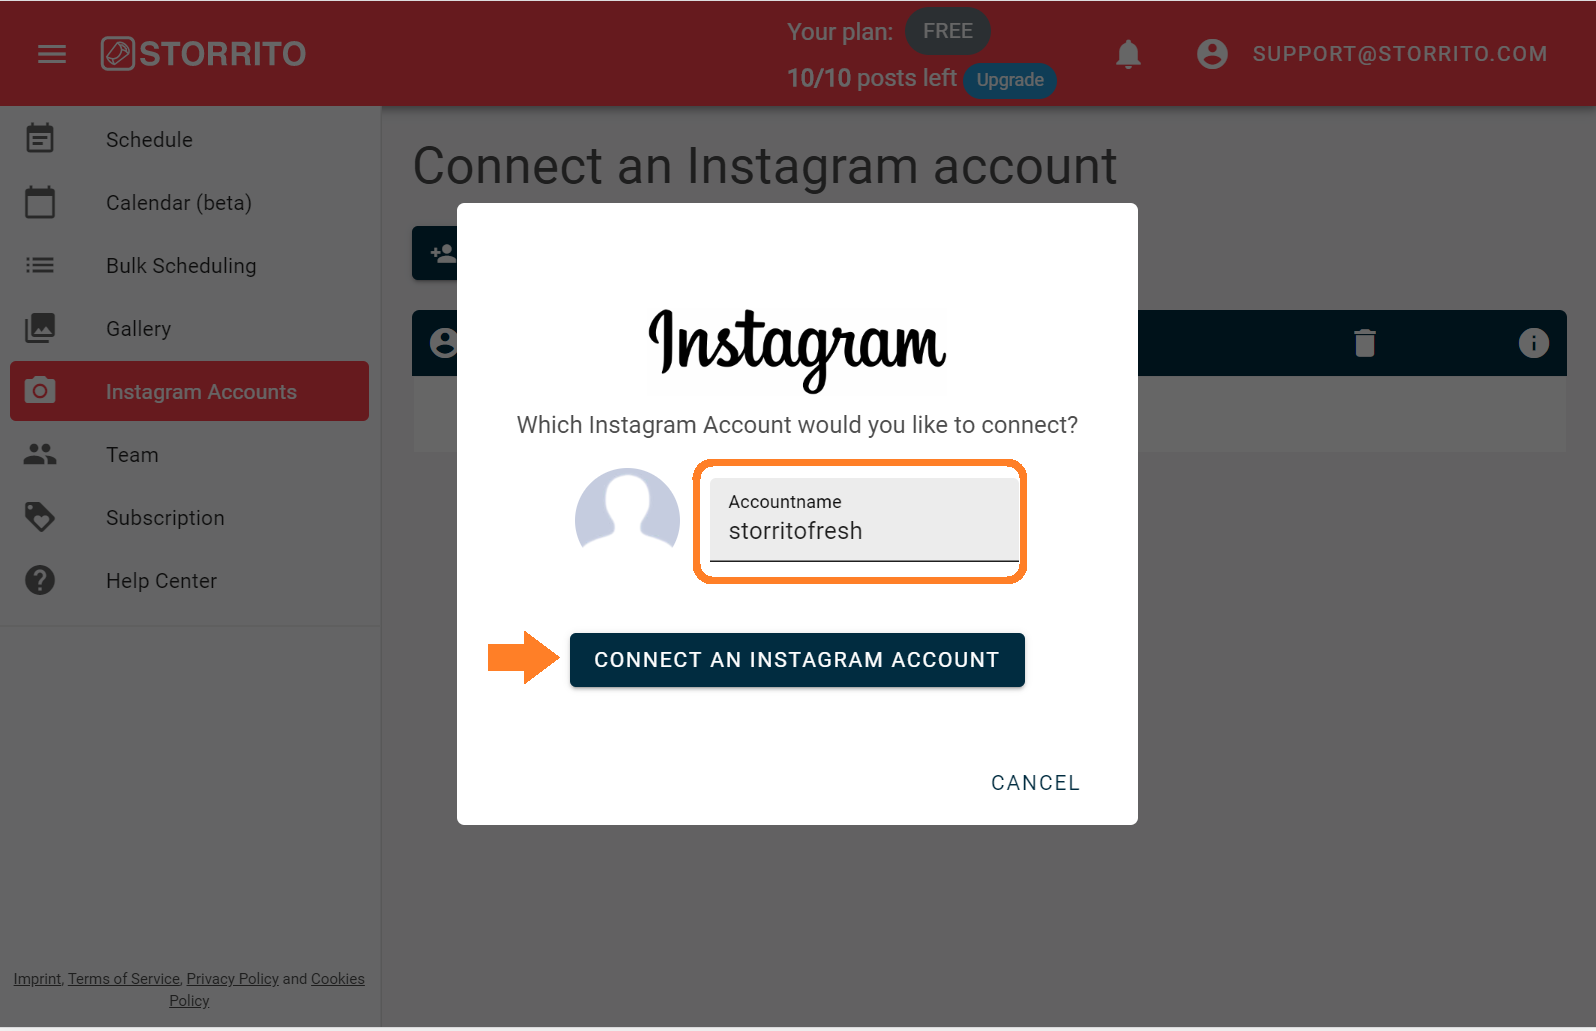
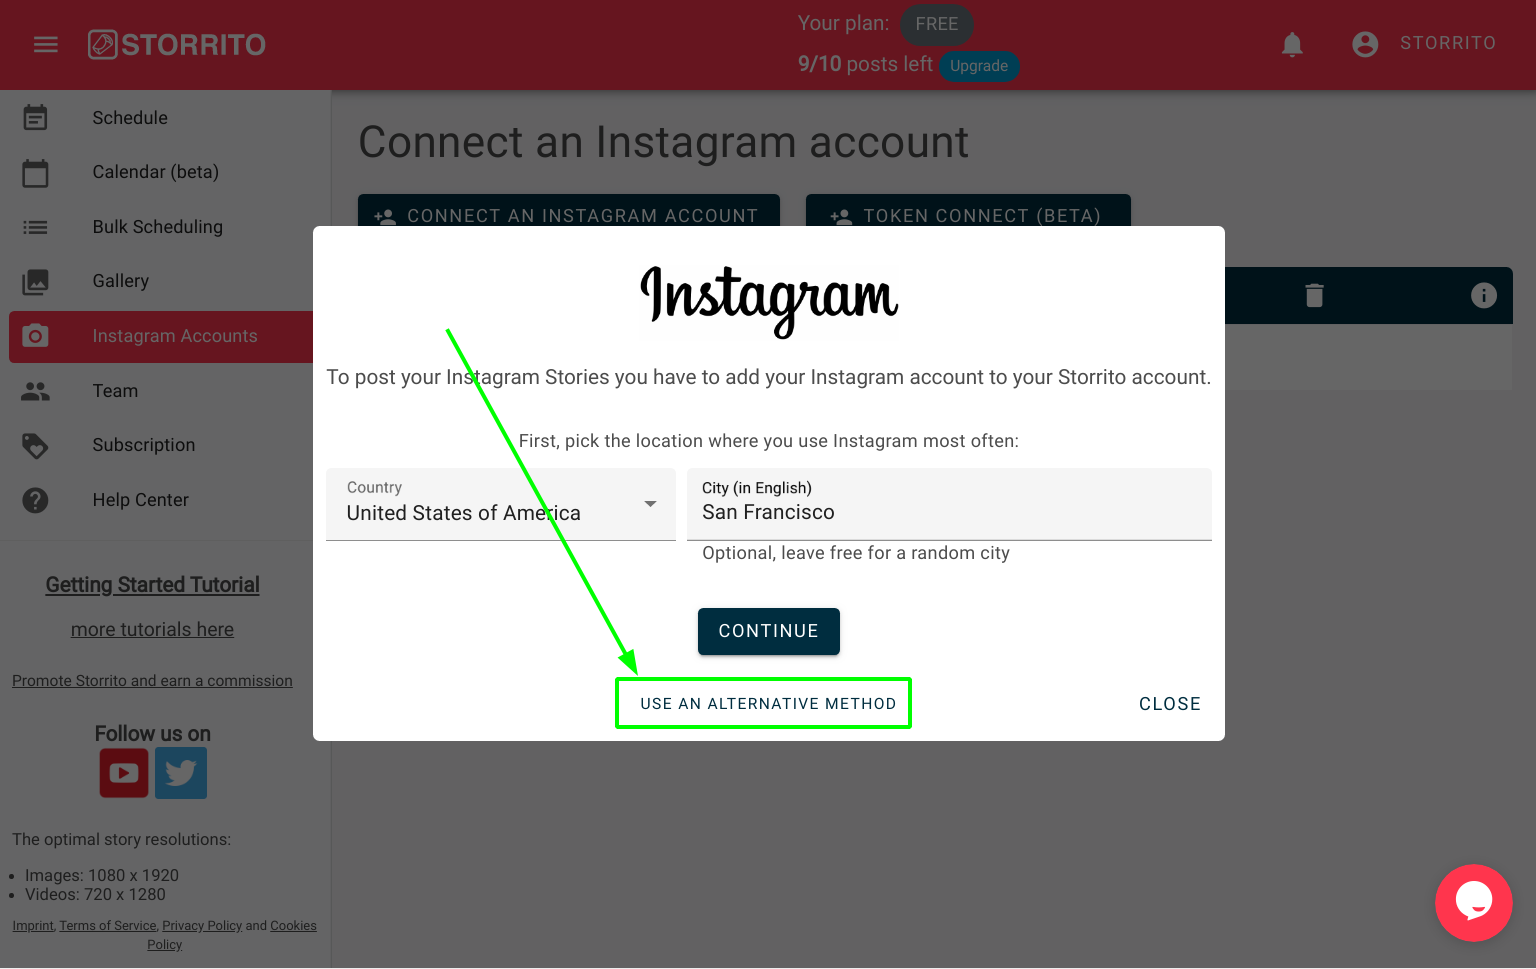
Exchanged screenshots and added tutorials for 2 browser extensions

diff --git a/_posts/2018-09-21-instagram-sessionid-cookie.md b/_posts/2018-09-21-instagram-sessionid-cookie.md
@@ -17,25 +17,54 @@ into your Instagram account. This is required to let Storrito post
 stories on your Instagram account.
 
 <!--more-->
-We recommend to use our [Chrome
-extension](https://chrome.google.com/webstore/detail/plnpnichbepfpgbhineljllbhdpglkpn)
-or [Firefox
-Add-On](https://addons.mozilla.org/de/firefox/addon/storrito/) to do
-the Instagram Connect for your Storrito account. If you still want to
-do it manually, please find the instructions below.
 
-A cookie has name and contains a text. For the Instagram Connect we
-need the `sessionid` cookie. The section below describes how to
-extract this cookie.
+## Get the session ID with a browser extension
 
-## How to get the Instagram sessionid cookie
+### Google Chrome - Cookie Tab Viewer:
 
-1. Open Google Chrome, Firefox or Edge
+1. Install the extension [Cookie Tab Viewer](https://chrome.google.com/webstore/detail/cookie-tab-viewer/fdlghnedhhdgjjfgdpgpaaiddipafhgk) and allow the extension to work in incognito:
+    1. Right click on the extension icon
+    2. Click on "Manage Extensions"
+    3. Activate the “Allow in Incognito” check box.
+
+2. Open an incognito window in Google Chrome
+
+3. Go to [https://www.instagram.com/](https://www.instagram.com/) and log into your Instagram account
+
+4. Click on the extension icon:
+  ![cookie tab viewer 1](/images/instagram-sessionid-cookie/cookie-tab-viewer-1.png)
+
+5. Copy the sessionid cookie by clicking on the copy button:  
+  ![cookie tab viewer 2](/images/instagram-sessionid-cookie/cookie-tab-viewer-2.png)
+
+6. Please paste the `session-id` into the proper input field on Storrito (see [Connect your Instagram account to Storrito](#connect-your-ig-account))
+
+### Firefox - Cookie Quick Manager:
+
+1. Install the addon [Cookie Quick Manager](https://addons.mozilla.org/de/firefox/addon/cookie-quick-manager/) and allow it to run in Private Windows:
+   ![cookie quick manager](/images/instagram-sessionid-cookie/cookie-quick-manager.png)
+
+2. Open a private firefox window
+
+3. Go to [https://www.instagram.com/](https://www.instagram.com/) and log into your Instagram account
+
+4. Click on the browser addon icon and select:
+  ![cookie quick manager](/images/instagram-sessionid-cookie/cookie-quick-manager-2.png)
+
+5. From left to right: Select the **.instagram.com** domain, Click on the first cookie called **sessionid**, Copy the cookie from the marked textbox:
+  ![cookie quick manager](/images/instagram-sessionid-cookie/cookie-quick-manager-3.png)
+
+6. Please paste the `session-id` into the proper input field on Storrito (see [Connect your Instagram account to Storrito](#connect-your-ig-account))
+
+
+## How to get the Instagram sessionid cookie manually (Google Chrome, Firefox, Edge)
+
+1. Open your browser
 
 2. Open an incognito window in Google Chrome (in Firefox it is called
 private window).
 
-3. Go to https://www.instagram.com/
+3. Go to https://www.instagram.com/ and log into your Instagram account
 
 2. Open Development console by doing a right click on the webpage and
 select "Inspect" or "Inspect Element" from the menu.
@@ -60,10 +89,9 @@ Edge:
 
 ![Edge](/images/instagram-sessionid-cookie/edge.png "Edge")
 
+## <a id="connect-your-ig-account"></a> Connect your Instagram account to Storrito
 
-## Connect your Instagram account to Storrito
-
-If you have not opened Storrito's Instagram Connect page, please open
+If you have not opened Storrito's Instagram Connect page yet, please open
 it:
 
 <a href="https://app.storrito.com/#/instagram/connect" target="_blank">https://app.storrito.com/#/instagram/connect</a>
@@ -71,14 +99,12 @@ it:
 Then click on `CONNECT AN INSTAGRAM ACCOUNT`  
 ![Instagram-connect step 1](/images/instagram-sessionid-cookie/instagram-connect-1.png "Instagram Connect step 1")
 
-Type in your Instagram account name and click on `CONNECT AN INSTAGRAM ACCOUNT`  
+Choose `USE AN ALTERNATIVE METHOD`  
 ![Instagram-connect step 2](/images/instagram-sessionid-cookie/instagram-connect-2.png "Instagram Connect step 2")
 
-Choose `I DON'T WANT TO USE MY CREDENTIALS.`  
-![Instagram-connect step 3](/images/instagram-sessionid-cookie/instagram-connect-3.png "Instagram Connect step 3")
-
-On the next page (shown below) you paste the copied `sessionid` (see
-orange oval), then click on the `CONNECT` button (see orange arrow).
+On the next page (shown below) you need paste the `sessionid` (see
+green rectangle) and then click on the `CONNECT` button (see green arrow).
+**Please see the tutorials further up to get the `sessionid` for your Instagram account.**
 
 ![Manual-Instagram-connect](/images/instagram-sessionid-cookie/manual-instagram-connect.png "Manual Instagram Connect")
 
